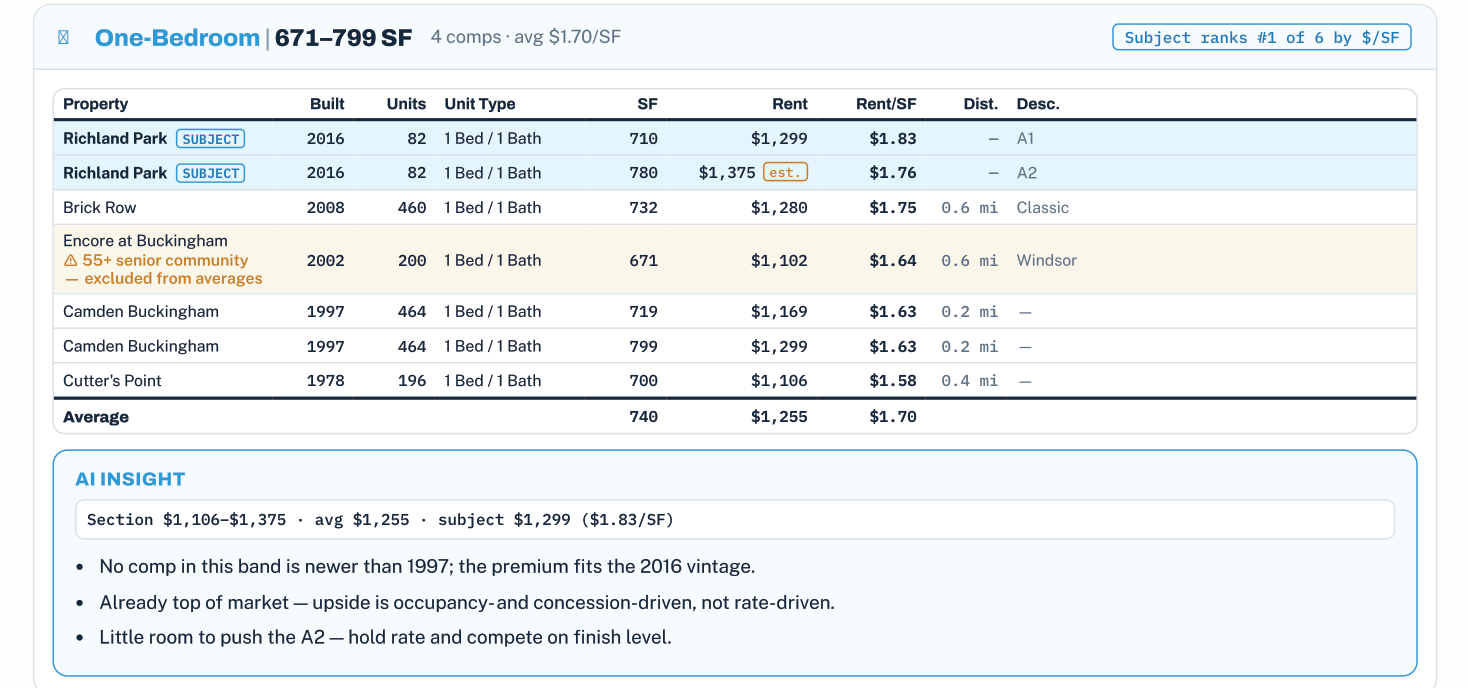
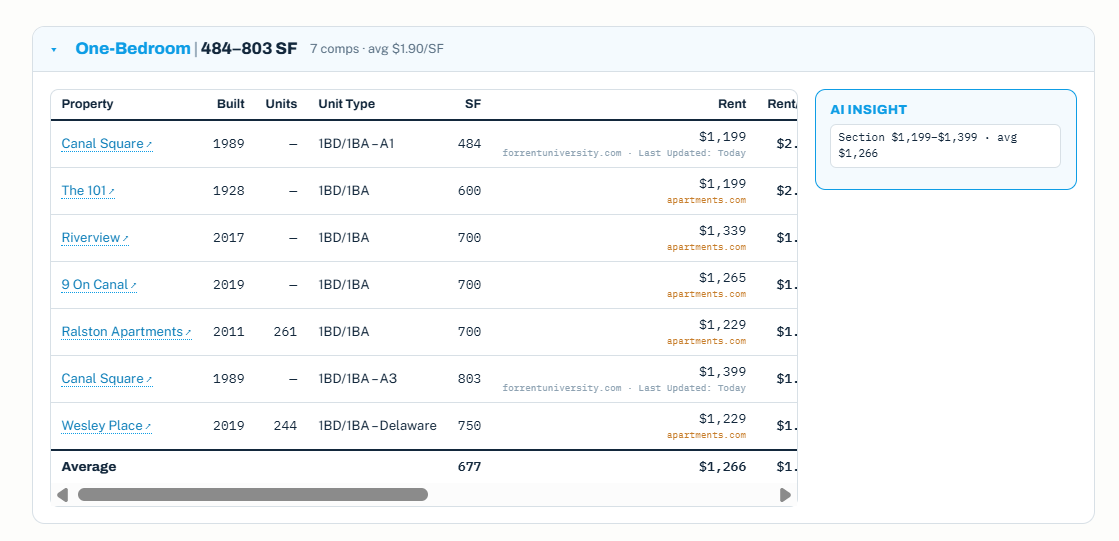
Add Morimens screenshots and real CompLens captures; link the live builder
- Morimens Team Builder: lineup-board and inventory screenshots captured
  from the app running locally (art synced via its own asset scripts),
  plus a link to morimens-team-builder.vercel.app
- CompLens gallery swapped to the actual app captures (map, one-bedroom
  comps, neighborhood report, demographics)

Claude-Session: https://claude.ai/code/session_01R9suhr3Du1htsWKJETekcR

diff --git a/data/projects.ts b/data/projects.ts
@@ -94,8 +94,10 @@ export const projects: Project[] = [
 		],
 		tech: "Next.js 14 (App Router), React, TypeScript, Tailwind CSS, Zustand (persisted to localStorage), Node data-sync scripts.",
 		links: [
+			{ label: "morimens-team-builder.vercel.app", url: "https://morimens-team-builder.vercel.app" },
 			{ label: "GitHub", url: "https://github.com/flinlabs/morimens-team-builder" },
 		],
+		images: ["/morimens-team.png", "/morimens-inventory.png"],
 	},
 	{
 		slug: "candi",
